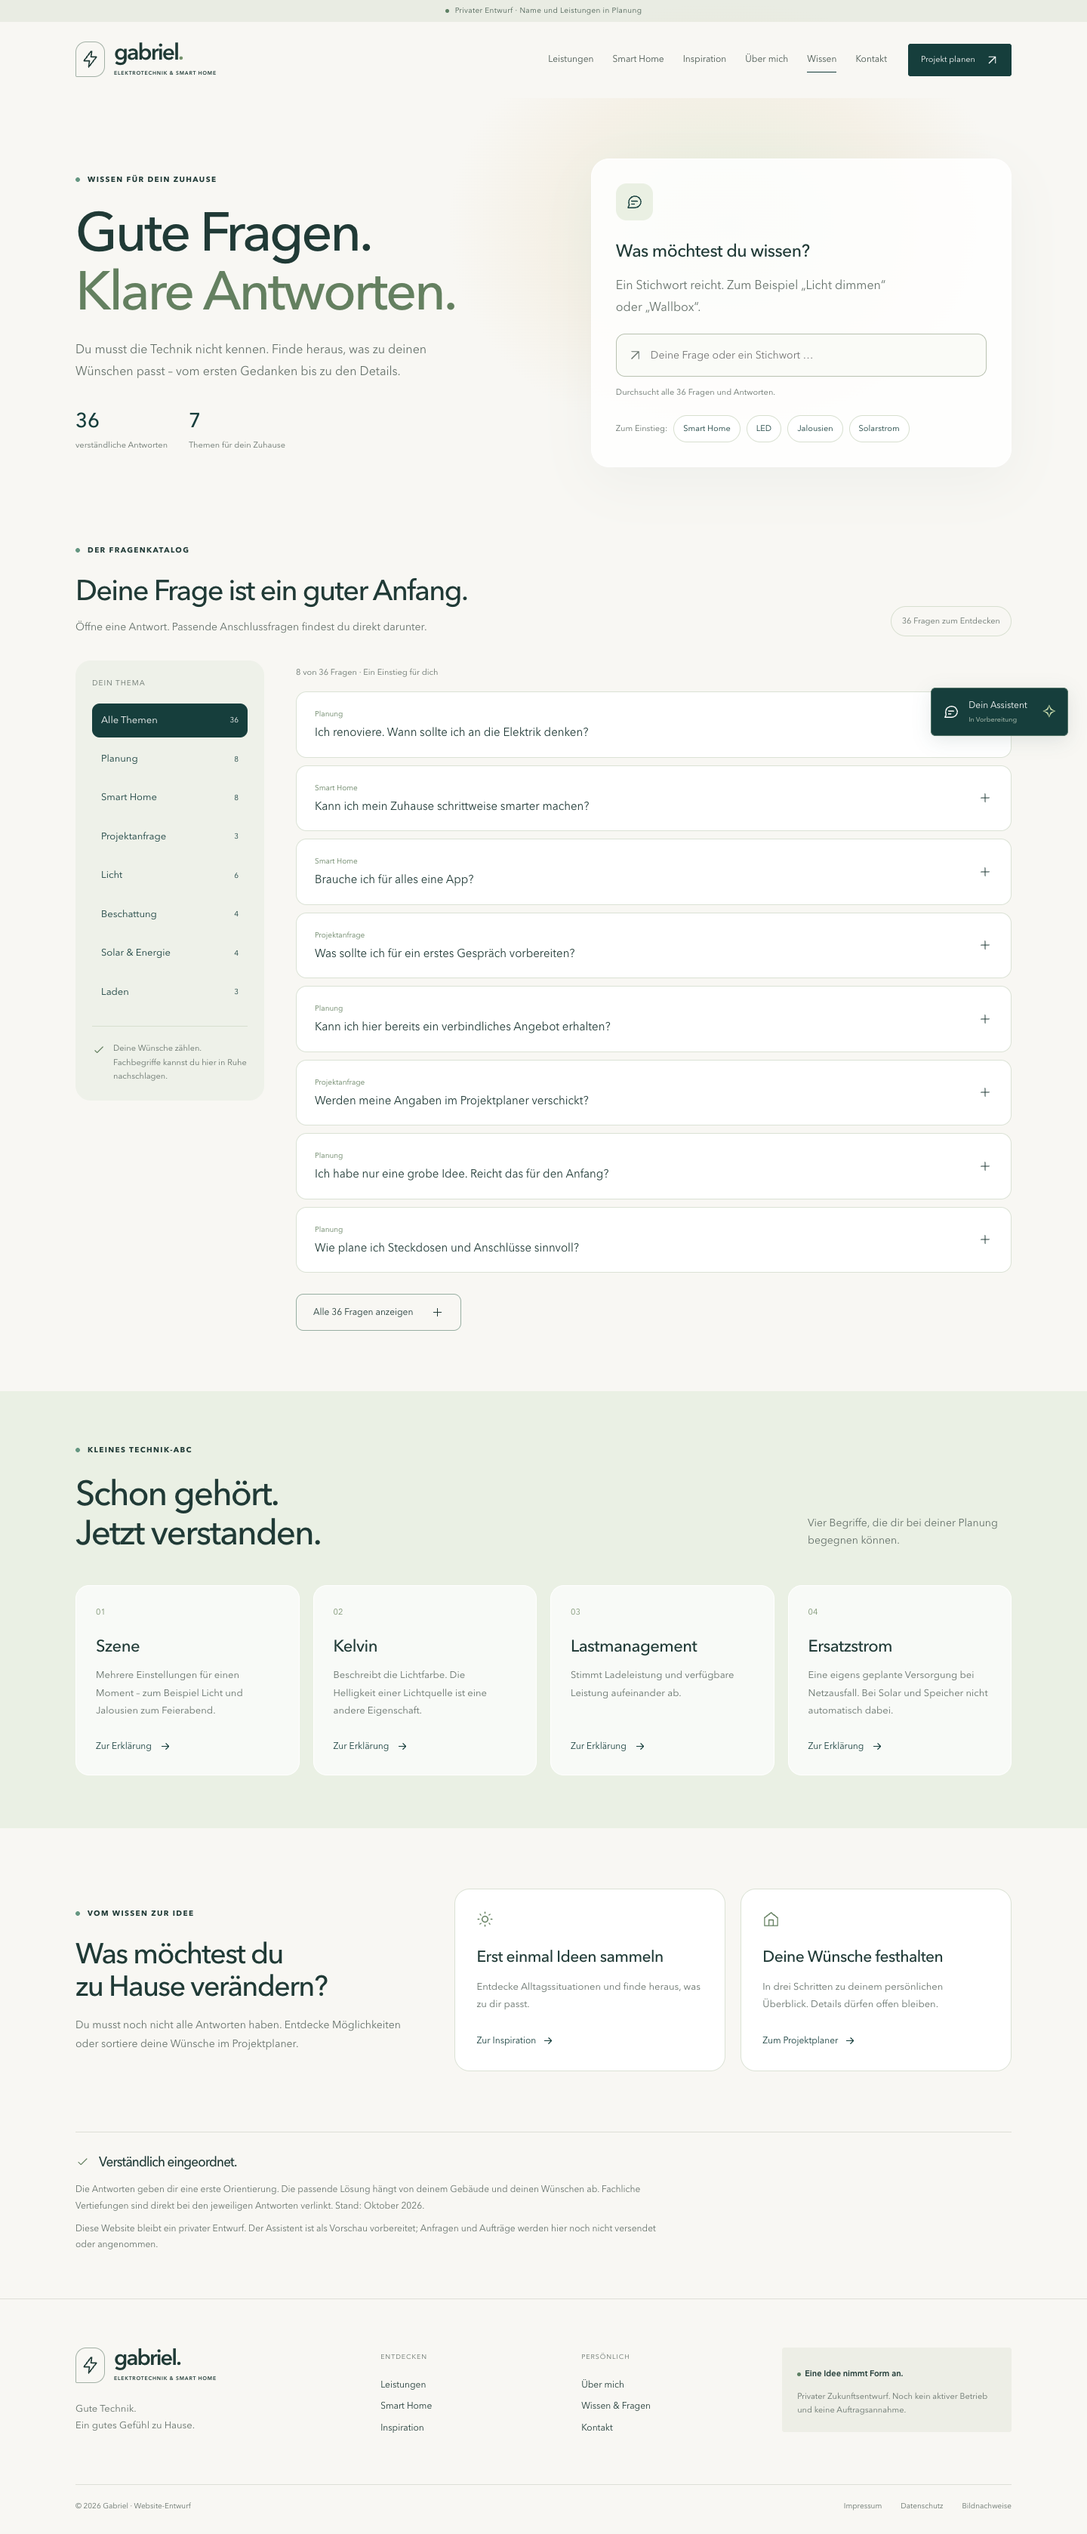
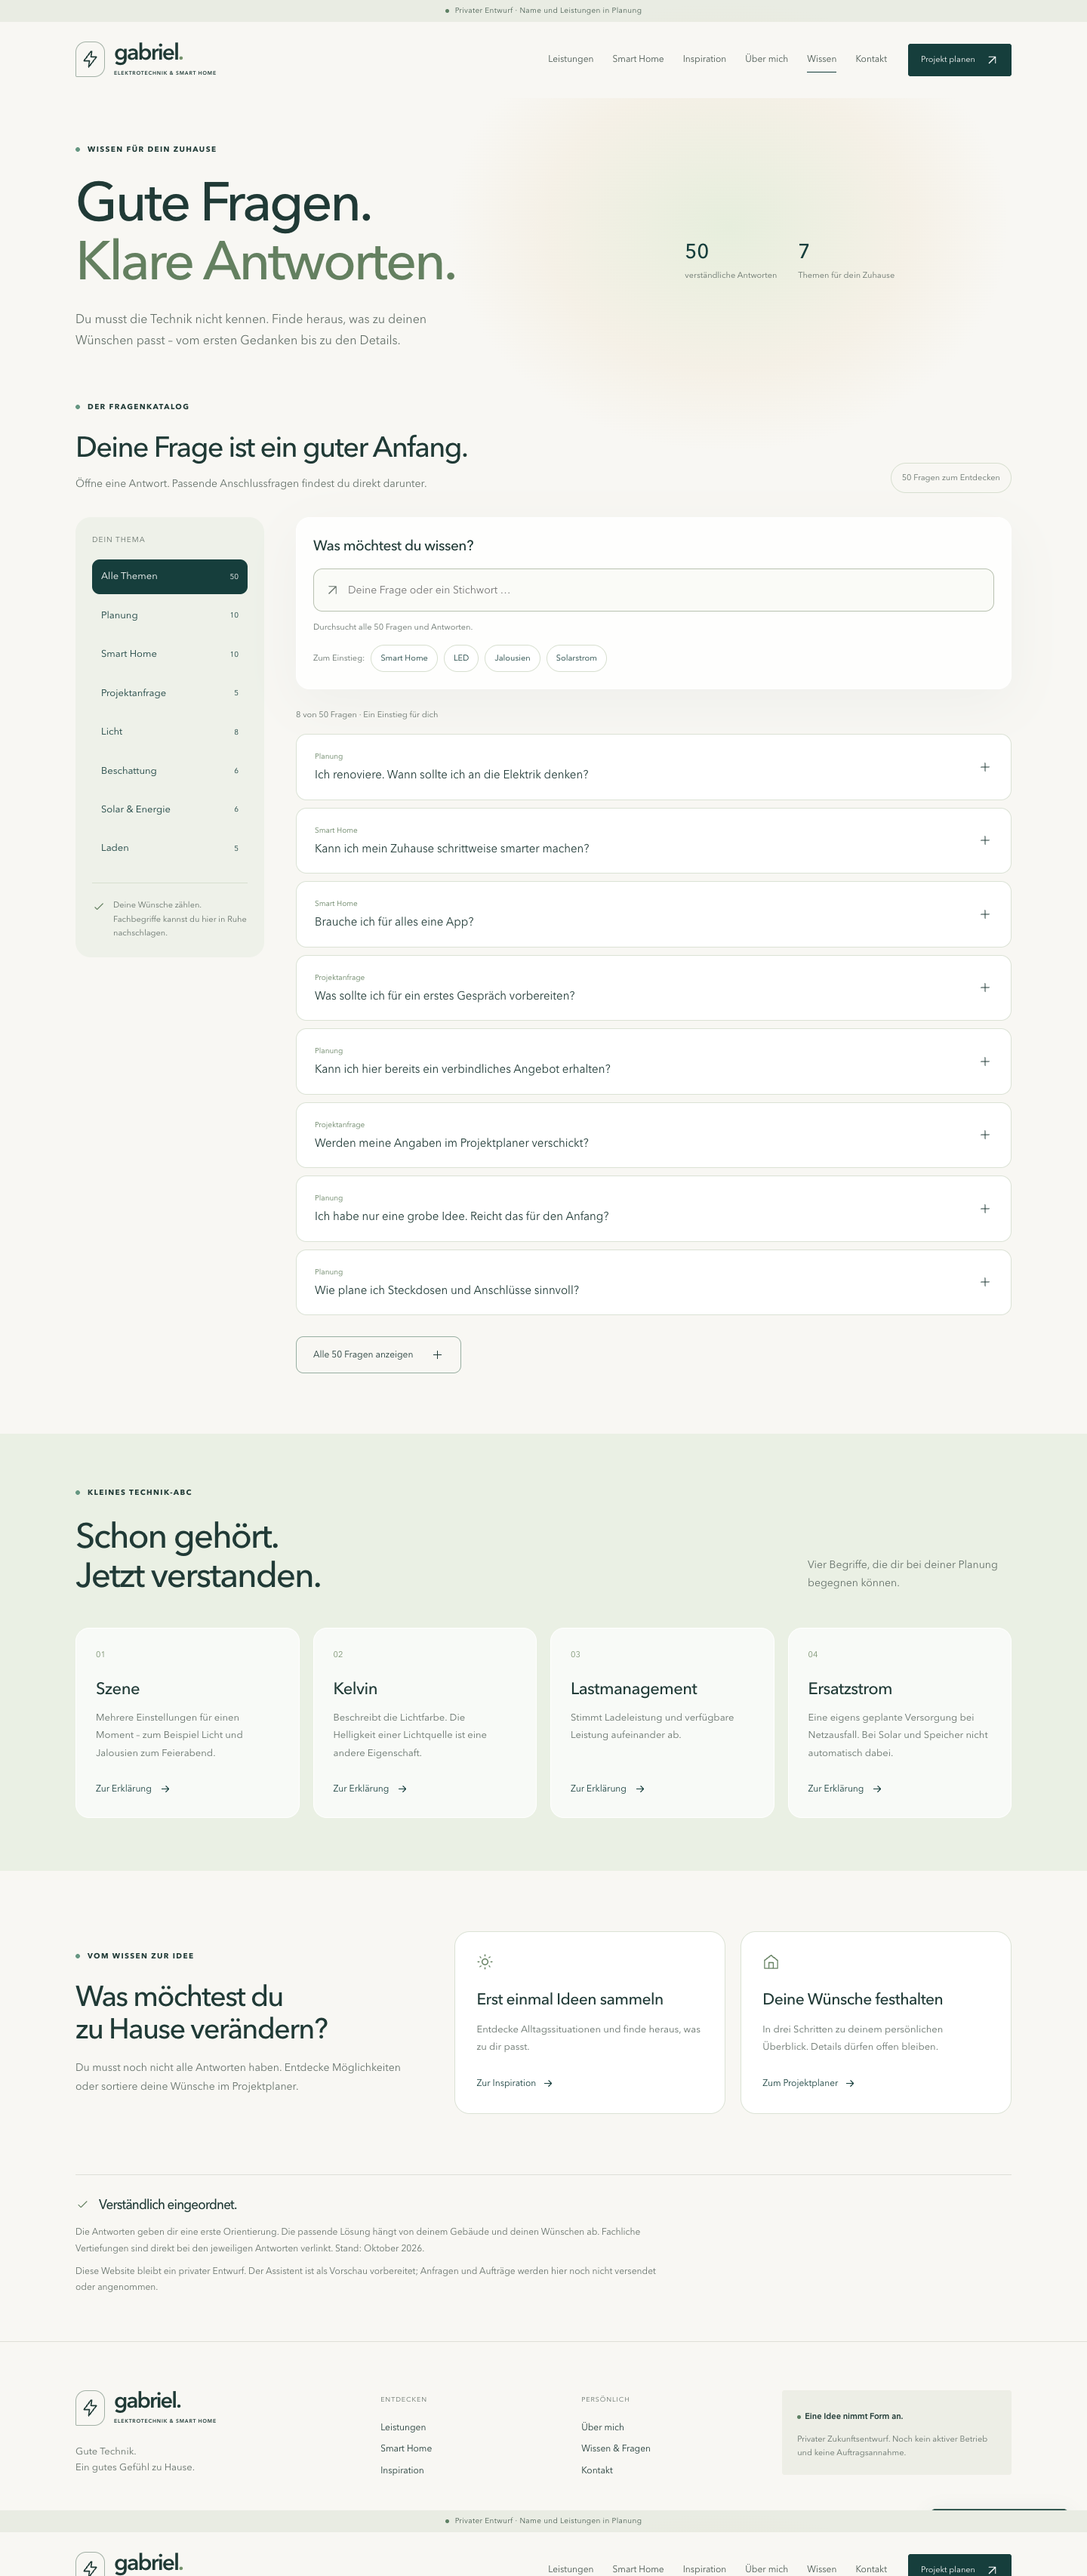
Wissenssuche direkt ueber Fragen platzieren und Katalog auf 50 erweitern

diff --git a/public/assets/knowledge.css b/public/assets/knowledge.css
@@ -1,20 +1,18 @@
 .knowledge-hub { position: relative; }
-.knowledge-hero { position: relative; display: grid; grid-template-columns: 1.1fr 1fr; gap: 70px; padding-block: 80px 72px; align-items: center; isolation: isolate; }
+.knowledge-hero { position: relative; display: grid; grid-template-columns: 1.4fr .8fr; gap: 50px; padding-block: 60px 35px; align-items: center; isolation: isolate; }
 .knowledge-hero::before { content: ''; position: absolute; z-index: -1; pointer-events: none; width: min(750px, 100%); height: 600px; right: 0; top: -130px; background: radial-gradient(ellipse, #dbe8ce99, #e8d6b433 45%, transparent 70%); animation: knowledge-arrive 3s ease-out both; }
 .knowledge-hero h1 { font-size: clamp(40px, 5.5vw, 72px); line-height: 1.08; letter-spacing: -.045em; margin-block: 22px; }
 .knowledge-hero h1 span { color: #648060; }
 .knowledge-hero > div > p:not(.eyebrow) { font-size: 16px; line-height: 1.8; max-width: 470px; color: var(--muted); }
 .knowledge-facts { display: flex; gap: 28px; margin-top: 30px; font-size: 11px; color: var(--muted); }
 .knowledge-facts strong { color: var(--petrol); font-size: 27px; display: block; font-weight: 500; }
-.knowledge-search-card { padding: 32px; border-radius: 24px; border: 1px solid #fff; background: #ffffffd9; box-shadow: 0 20px 70px #163e3c0b; }
-.knowledge-search-icon { display: inline-flex; padding: 13px; border-radius: 14px; color: var(--petrol); background: #eaf0e3; margin-bottom: 22px; }
-.knowledge-search-card .search-label { display: block; font-size: 23px; font-weight: 500; letter-spacing: -.025em; }
-.knowledge-search-card p { font-size: 13px; line-height: 1.7; color: var(--muted); margin-block: 12px 20px; }
+.knowledge-search-card { padding: 22px; margin-bottom: 18px; border-radius: 18px; border: 1px solid #fff; background: #ffffffd9; box-shadow: 0 20px 70px #163e3c0b; }
+.knowledge-search-card .search-label { display: block; font-size: 19px; font-weight: 500; margin-bottom: 14px; letter-spacing: -.025em; }
 .knowledge-search-field { position: relative; }
 .knowledge-search-field > .icon { position: absolute; left: 16px; top: 17px; width: 19px; z-index: 1; pointer-events: none; color: var(--muted); }
 .knowledge-search-card .search-input { border-radius: 12px; padding: 16px 38px 16px 45px; background: #fafbf7; font-size: 14px; }
 .knowledge-search-card > small { display: block; font-size: 11px; color: var(--muted); margin-top: 12px; }
-.knowledge-suggestions { display: flex; flex-wrap: wrap; gap: 8px; align-items: center; margin-top: 22px; font-size: 11px; color: var(--muted); }
+.knowledge-suggestions { display: flex; flex-wrap: wrap; gap: 8px; align-items: center; margin-top: 14px; font-size: 11px; color: var(--muted); }
 .knowledge-suggestions button { border: 1px solid #d7dfcf; border-radius: 24px; background: #fff; padding: 8px 12px; color: var(--petrol); cursor: pointer; }
 .knowledge-catalog { padding-block: 30px 80px; }
 .knowledge-catalog-heading { display: flex; align-items: end; justify-content: space-between; gap: 24px; margin-bottom: 32px; }
@@ -88,8 +86,8 @@
  .knowledge-hero h1 { font-size: 43px; }
  .knowledge-hero > div > p:not(.eyebrow) { font-size: 14px; }
  .knowledge-facts { gap: 25px; margin-top: 22px; }
- .knowledge-search-card { padding: 24px 20px; }
- .knowledge-search-card .search-label { font-size: 22px; }
+ .knowledge-search-card { padding: 18px; }
+ .knowledge-search-card .search-label { font-size: 18px; }
  .knowledge-search-card .search-input { font-size: 13px; }
  .knowledge-catalog { padding-block: 25px 50px; }
  .knowledge-catalog-heading { display: block; }
@@ -108,7 +106,7 @@
  .knowledge-learning .section-heading > p { margin-top: 20px; }
  .knowledge-glossary { gap: 12px; }
  .knowledge-glossary article { padding: 20px 16px; }
- .knowledge-glossary h3 { font-size: 18px; overflow-wrap: anywhere; }
+ .knowledge-glossary h3 { font-size: clamp(15px, 4vw, 18px); overflow-wrap: anywhere; }
  .knowledge-glossary p { font-size: 12px; }
  .knowledge-paths { padding-block: 50px; }
  .knowledge-path-grid { grid-template-columns: 1fr; }

diff --git a/public/assets/knowledge.js b/public/assets/knowledge.js
@@ -13,6 +13,7 @@ if (root) {
   root.querySelectorAll('[data-knowledge-controls]').forEach(el=>el.hidden=false);
   function update() {
     const query = normalize(search.value.trim());
+    root.querySelector(".knowledge-suggestions").hidden = !!query;
     const tokens = query.split(/[^\p{L}\p{N}]+/u).filter(t=>t && !stopwords.has(t));
     const matches = entries.filter(entry=>(!category || entry.dataset.category===category) && tokens.every(t=>indexes.get(entry).includes(t)));
     const limit = !query && !category && !expanded ? 8 : matches.length;

diff --git a/docs/WISSEN.md b/docs/WISSEN.md
@@ -4,9 +4,9 @@ Stand: 30.10.2026 · lokal umgesetzt
 
 ## Aufbau
 
-36 redaktionelle Fragen in sieben Themen: Planung (8), Smart Home (8), Projektanfrage (3), Licht (6), Beschattung (4), Solar & Energie (4) und Laden (3). Keine behaupteten Kundenstatistiken oder angeblichen „häufigsten“ Suchanfragen.
+50 redaktionelle Fragen in sieben Themen: Planung (10), Smart Home (10), Projektanfrage (5), Licht (8), Beschattung (6), Solar & Energie (6) und Laden (5). Keine behaupteten Kundenstatistiken oder angeblichen „häufigsten“ Suchanfragen.
 
-Oben stehen Suche, Beispielbegriffe und eine kurze Einführung. Der Katalog zeigt zunächst acht Fragen. „Alle 36 Fragen anzeigen“ öffnet den vollständigen Katalog; „Weniger Fragen anzeigen“ reduziert ihn wieder. Ein Themenfilter zeigt alle Fragen des gewählten Themas. Jede geöffnete Antwort bietet zwei weitere Fragen desselben Themenbereichs an. Verlinkte Anschlussfragen und die Erklärungen des Technik-ABCs werden direkt eingeblendet, geöffnet und fokussiert; Filter und Suche werden dabei zurückgesetzt.
+Oben steht eine kompakte Einführung. Die Suche steht direkt über den Fragen in derselben Spalte; die bestätigte Themenanordnung bleibt links beziehungsweise auf Mobil davor. Während der Suche werden die Beispielbegriffe ausgeblendet, damit der erste Treffer direkt folgt. Der Katalog zeigt zunächst acht Fragen. „Alle 50 Fragen anzeigen“ öffnet den vollständigen Katalog; „Weniger Fragen anzeigen“ reduziert ihn wieder. Ein Themenfilter zeigt alle Fragen des gewählten Themas. Jede geöffnete Antwort bietet zwei weitere Fragen desselben Themenbereichs an. Verlinkte Anschlussfragen und die Erklärungen des Technik-ABCs werden direkt eingeblendet, geöffnet und fokussiert; Filter und Suche werden dabei zurückgesetzt.
 
 Darunter: vier Begriffskarten (Szene, Kelvin, Lastmanagement, Ersatzstrom), zwei Einstiege zu Inspiration und Planer sowie eine kurze redaktionelle Einordnung. Helle Karten, Salbeigrün und ein weicher Hintergrund-Lichtschein machen die Seite voller. Der Schein blendet sich einmal in drei Sekunden ein; keine dauerhafte Animation. Bei reduzierter Bewegung bleibt er statisch.
 
@@ -14,12 +14,12 @@ Darunter: vier Begriffskarten (Szene, Kelvin, Lastmanagement, Ersatzstrom), zwei
 
 Die Suche durchsucht alle Fragen, Antworten, Kategorien und zusätzliche verwandte Begriffe, unabhängig vom anfänglichen Ausklappen. Mehrere Wörter müssen vorkommen, die Wortreihenfolge ist egal. Groß-/Kleinschreibung, Umlaute und übliche Umschreibungen werden vereinheitlicht. Keine KI, keine unscharfe Tippfehlerkorrektur; die Begriffe werden lokal abgeglichen. Verwandte Links und Quellen zählen nicht zum Suchtext.
 
-Die Suche wird mit dem Thema kombiniert; bei keinem Treffer gibt es eine Erklärung und eine Rücksetztaste. Trefferzahl wird als Status ausgegeben, Themenfilter haben sichtbare und zugängliche Auswahlzustände. Native Details/Summary-Elemente erhalten die Tastaturbedienung. Ohne JavaScript bleiben alle 36 Fragen direkt zugänglich; interaktive Filter und Beispielbegriffe bleiben ausgeblendet. Keine Eingaben werden versendet oder gespeichert. Fragmentlinks enthalten nur feste Fragekennungen.
+Die Suche wird mit dem Thema kombiniert; bei keinem Treffer gibt es eine Erklärung und eine Rücksetztaste. Trefferzahl wird als Status ausgegeben, Themenfilter haben sichtbare und zugängliche Auswahlzustände. Native Details/Summary-Elemente erhalten die Tastaturbedienung. Ohne JavaScript bleiben alle 50 Fragen direkt zugänglich; interaktive Filter und Beispielbegriffe bleiben ausgeblendet. Keine Eingaben werden versendet oder gespeichert. Fragmentlinks enthalten nur feste Fragekennungen.
 
 ## Dateien
 
 - `src/content.mjs`: bisherige sechs Fragen, ergänzt um die neuen Fragen.
-- `src/knowledge-data.mjs`: 30 neue Fragen, Suchbegriffe und externe Vertiefungen.
+- `src/knowledge-data.mjs`: 44 ergänzende Fragen, Suchbegriffe und externe Vertiefungen.
 - `src/knowledge.mjs`: vollständiger Seitenaufbau und Anschlussfragen.
 - `public/assets/knowledge.js` und `knowledge.css`: lokale Suche, Filter, Darstellung.
 - `src/components.mjs`: CSS und Modul nur auf `/wissen/` eingebunden. Die alte Suchfunktion wurde aus `app.js` entfernt.
@@ -36,3 +36,7 @@ Geprüft am 30.10.2026. Orientierungstexte sind eigenständig formuliert. Keine 
 - [Bundesnetzagentur: Ladeeinrichtungen](https://www.bundesnetzagentur.de/DE/Fachthemen/ElektrizitaetundGas/Netzanschluss/FAQLadeeinrichtungen/Ladeeinrichtung_table.html): Meldung beim Netzbetreiber und leistungsabhängige Zustimmung. Bewusst keine pauschale Leistungsgrenze oder allgemeine Anschlusszusage.
 
 Die passenden Vertiefungen stehen direkt an den jeweiligen Antworten und öffnen in einem weiteren Tab. Die Seite lädt selbst keine externen Inhalte.
+
+## Korrektur nach Gabriels Rückmeldung
+
+Das vorherige Suchfeld im oberen Einstieg war zu weit von den Treffern entfernt. Es steht jetzt im Fragenkatalog unmittelbar vor Status und Antworten. Der Abstand zwischen Eingabe und erstem Treffer wird auf Desktop und Mobil geprüft. Der Katalog wurde von 36 auf 50 Fragen erweitert, mit jeweils zwei zusätzlichen Fragen pro Themenbereich.

diff --git a/README.md b/README.md
@@ -22,7 +22,7 @@ Der erste lokale Entwurf ist umgesetzt: helle Gestaltung mit Petrol, echte Unter
 - Dezentes bewegtes Lichtspiel im Hintergrund des Startseiteneinstiegs, mit Pausentaste. Bei reduzierter Bewegung oder ohne JavaScript bleibt es statisch; außerhalb des sichtbaren Bereichs und bei verborgenem Tab pausiert die Bewegung.
 - Inspiration mit vier eigenen Alltagsszenen: Orientierungslicht, Morgenroutine, Arbeits- und Wohnlicht sowie Energieüberblick.
 - Kurzer Berater mit fünf Fragen, begründeten Ansätzen und bearbeitbarer Übergabe in den Projektplaner.
-- Über mich, Kontakt sowie ein Wissensbereich mit 36 Fragen, sieben Themenfiltern, Volltextsuche, verwandten Fragen und Technik-ABC. Acht Fragen bilden den Einstieg; der vollständige Katalog lässt sich aus- und wieder einklappen.
+- Über mich, Kontakt sowie ein Wissensbereich mit 50 Fragen, sieben Themenfiltern, Volltextsuche, verwandten Fragen und Technik-ABC. Acht Fragen bilden den Einstieg; der vollständige Katalog lässt sich aus- und wieder einklappen.
 - Moderner Projektplaner mit Wünschen am Anfang, drei erklärten Schritten, Fortschrittsbalken, Themenkarten und Hilfe zur Orientierung. Exportierbare Zusammenfassung mit den Wünschen zuerst.
 - Als Vorschau gekennzeichneter Einstieg für einen späteren KI-Assistenten.
 - Entwurfsseiten für Impressum und Datenschutz sowie Bildnachweise und Fehlerseite.
@@ -56,7 +56,7 @@ Der Wissensbereich wird zusätzlich auf Suche mit mehreren Wörtern, Themenfilte
 ## Aufbau
 
 - `src/content.mjs`: zentrale Inhalte, Leistungsbereiche und Fragen.
-- `src/knowledge.mjs`, `src/knowledge-data.mjs`, `public/assets/knowledge.js` und `knowledge.css`: Wissensseite, 36 Antworten, Suche und Themenfilter.
+- `src/knowledge.mjs`, `src/knowledge-data.mjs`, `public/assets/knowledge.js` und `knowledge.css`: Wissensseite, 50 Antworten, Suche und Themenfilter.
 - `src/components.mjs`: gemeinsamer Seitenrahmen und wiederverwendbare Elemente.
 - `public/assets/interactions.css`: gemeinsame Hervorhebung klickbarer Elemente, mit Rücksicht auf Touch und reduzierte Bewegung.
 - `src/pages.mjs`: Inhalte der einzelnen Seiten.

diff --git a/docs/PROJEKTSTAND.md b/docs/PROJEKTSTAND.md
@@ -1,6 +1,15 @@
 # Projektstand
 
-Stand: 30.10.2026 · Wissensseite mit 36 Fragen und neuem Aufbau
+Stand: 30.10.2026 · Wissenssuche direkt über den Fragen, 50 Antworten
+
+## Wissenssuche und Erweiterung auf 50 Fragen (30.10.2026)
+
+- Gabriels Rückmeldung: Suche im Einstieg zu weit von den Fragen entfernt. Die Themenfelder gefallen ihm ausdrücklich und sollen so angeordnet bleiben. Erweiterung auf 50 Fragen gewünscht.
+- Suchkarte direkt in die Fragenspalte vor Trefferstatus und Antworten verschoben. Kompakterer Einstieg mit Titel und Kennzahlen. Auf Mobil stehen die Themen vor der Suche; zwischen Suche und Antworten gibt es keinen weiteren Inhaltsblock. Suchvorschläge werden während einer Eingabe ausgeblendet.
+- Je zwei zusätzliche Fragen pro Thema: Planung 10, Smart Home 10, Projektanfrage 5, Licht 8, Beschattung 6, Solar & Energie 6, Laden 5. Unter anderem Möbelplan, Bestandsunterlagen, verständliche Bedienung, Automatik-Wünsche, Lumen, Bildschirmlicht, Schlafzimmer, Vorbereitung für Beschattung und Wallbox sowie Speichern/Bearbeiten im Planer.
+- Acht Einstiegsfragen, Themenfilter, verwandte Fragen und Technik-ABC bleiben erhalten. Suche erfasst alle 50 Fragen, auch die zunächst eingeklappten. Keine Veröffentlichung oder externe Anbindung.
+- Arbeitsbranch `fix/wissen-suche-und-50-fragen`, aufbauend auf `6ad56f6`. Build: 18 Seiten, 534 interne Verweise. Browserprüfungen für 50 Fragen und für die räumliche Nähe von Eingabe und Treffer bei 320, 375 und 1440 Pixeln ergänzt. Desktop/Mobil-Ansichten aktualisiert. Alle 17 Prüfungen erfolgreich; die angepassten Wissen-Prüfungen nach der letzten Suchkorrektur erneut bestanden.
+- Nächster Schritt: Gabriel prüft die neue Position der Suche und die zusätzlichen Inhalte. Aufbau und Quellen bleiben in [WISSEN.md](WISSEN.md) dokumentiert.
 
 ## Wissensseite: umfangreicher Fragenkatalog (30.10.2026)
 
